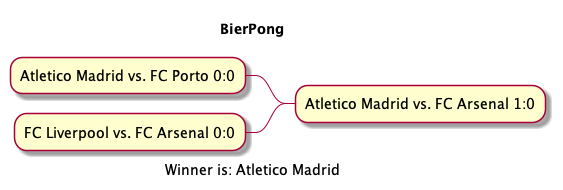
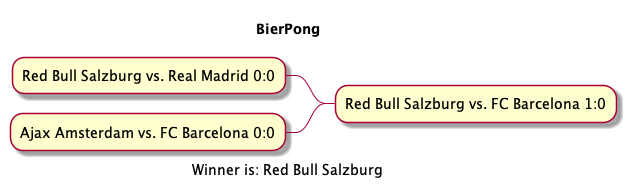
remove test lines

Changed region(s): [[0.0, 0.2895, 0.9964, 0.9474], [0.3925, 0.1053, 0.5133, 0.2105], [0.9361, 0.4474, 0.9663, 0.4737]]

diff --git a/src/main/java/at/htl/control/TournamentRepository.java b/src/main/java/at/htl/control/TournamentRepository.java
@@ -47,9 +47,6 @@ public class TournamentRepository implements PanacheRepository<Tournament> {
         nodes.add(node2);
         nodes.add(node3);
 
-        node3.setCurMatch(new Match(node1.getCurMatch().getTeam1(), node2.getCurMatch().getTeam2()));
-        node3.getCurMatch().setPointsTeam1(1);
-
         return nodes;
     }
 
